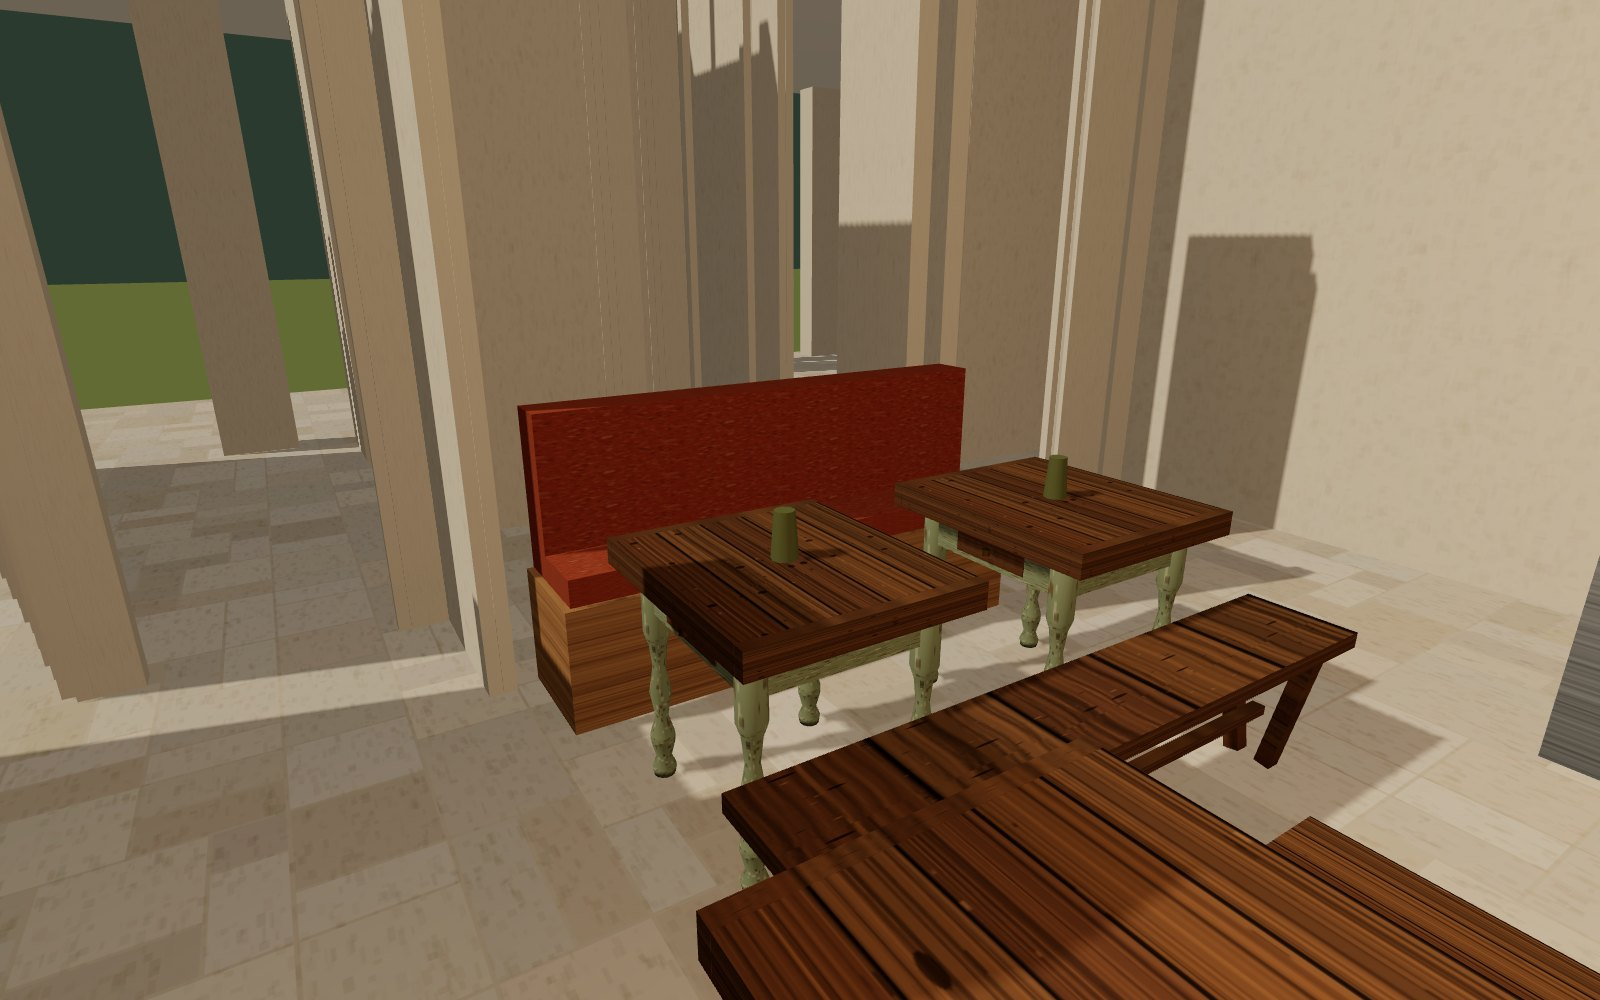
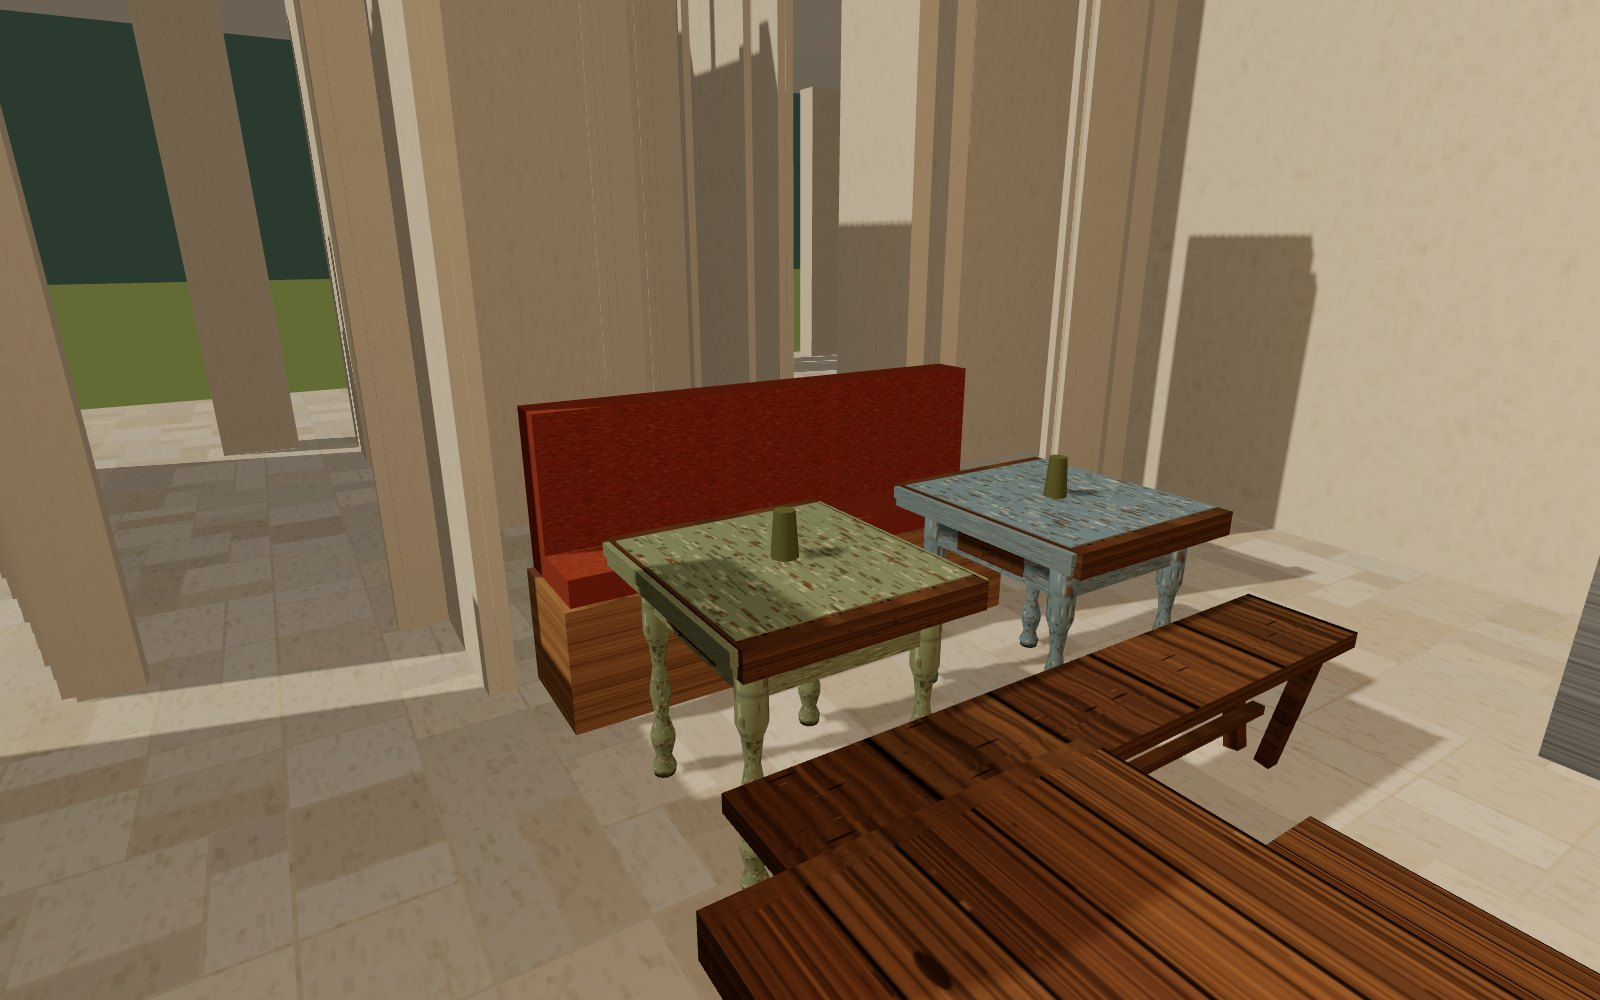
Tavolini antichi: anche il piano dipinto e consumato come le gambe, in tre colori vecchi
Claude-Session: https://claude.ai/code/session_01QZXxqty357DcebAAL5Vpaf

Changed region(s): [[0.375, 0.465, 0.75, 0.682]]

diff --git a/render-3d/sala-tavoli-antichi/piu-antichi/pianoterra.js b/render-3d/sala-tavoli-antichi/piu-antichi/pianoterra.js
@@ -375,7 +375,9 @@ const antW = T(rep(cv(512, 256, (g, w, h) => { const pl = 5, ph = h / pl;
     for (let k = 0; k < 2; k++) { const kx = rnd() * w, ky = p * ph + ph * (0.3 + rnd() * 0.4); g.fillStyle = 'rgba(20,8,2,0.55)'; g.beginPath(); g.ellipse(kx, ky, 6 + rnd() * 6, 3 + rnd() * 2, 0, 0, 7); g.fill(); }
     g.fillStyle = 'rgba(10,4,0,0.85)'; g.fillRect(0, p * ph, w, 2.5); g.fillStyle = 'rgba(220,180,130,0.12)'; g.fillRect(0, p * ph + 3, w, 3); }
   for (let i = 0; i < 70; i++) { g.fillStyle = `rgba(${rnd() > 0.6 ? '210,170,120' : '15,6,2'},${0.15 + rnd() * 0.25})`; g.fillRect(rnd() * w, rnd() * h, 1 + rnd() * 12, 1 + rnd() * 2); } }), 1.5, 1), { roughness: 0.6 });
-const paintBase = T(rep(cv(256, 256, (g, w, h) => { g.fillStyle = '#8f9a7a'; g.fillRect(0, 0, w, h); for (let i = 0; i < 500; i++) { const r = rnd(); g.fillStyle = r < 0.4 ? 'rgba(235,225,200,0.35)' : r < 0.8 ? 'rgba(70,50,30,0.4)' : 'rgba(120,80,45,0.6)'; g.fillRect(rnd() * w, rnd() * h, 2 + rnd() * 14, 1 + rnd() * 4); } }), 1, 1), { roughness: 0.8 });
+const paintT = (base) => T(rep(cv(256, 256, (g, w, h) => { g.fillStyle = base; g.fillRect(0, 0, w, h); for (let i = 0; i < 520; i++) { const r = rnd(); g.fillStyle = r < 0.4 ? 'rgba(240,232,210,0.35)' : r < 0.8 ? 'rgba(70,50,30,0.35)' : 'rgba(120,80,45,0.65)'; g.fillRect(rnd() * w, rnd() * h, 2 + rnd() * 16, 1 + rnd() * 4); }
+  g.strokeStyle = 'rgba(60,40,25,0.25)'; g.lineWidth = 1; for (let y = 0; y < h; y += 32) { g.beginPath(); g.moveTo(0, y); g.lineTo(w, y + 2); g.stroke(); } }), 1, 1), { roughness: 0.75 });
+const PAINTS = [paintT('#8f9a7a'), paintT('#e3d8bf'), paintT('#7f97a3')]; let paintI = 0; const paintBase = PAINTS[0];
 const legGeo = (h, r) => new THREE.LatheGeometry([[0, 0], [r * 0.85, 0], [r * 0.95, h * 0.04], [r * 0.6, h * 0.09], [r * 0.95, h * 0.17], [r * 0.95, h * 0.21], [r * 0.5, h * 0.3], [r * 0.85, h * 0.42], [r * 0.5, h * 0.55], [r * 0.7, h * 0.66], [r * 1.05, h * 0.72], [r * 1.05, h], [0, h]].map(([a, b]) => new THREE.Vector2(a, b)), 14);
 function antLeg(x, z, h, r, m = antW) { const L = new THREE.Mesh(legGeo(h, r), m); L.position.set(x, 0, z); L.castShadow = true; scene.add(L); }
 // big tables: Italian "fratino" refectory table – very thick plank top, two carved trestle ends, long beam with wooden wedges
@@ -390,9 +392,13 @@ function antTable(x0, x1, z0, z1, h = 0.76) {
     box(x0 + 0.25, x1 - 0.25, 0.3, 0.4, cz - 0.035, cz + 0.035, antW);                       // long beam
     for (const x of [x0 + 0.22, x1 - 0.22]) box(x - 0.02, x + 0.02, 0.26, 0.44, cz - 0.05, cz + 0.05, antW);  // wedges
   } else {                                            // small: old kitchen table with painted turned legs and a drawer
-    const ix = 0.07, iz = 0.07; box(x0 + ix, x1 - ix, h - 0.2, h - 0.08, z0 + iz, z1 - iz, paintBase);
+    const pm = PAINTS[paintI++ % PAINTS.length];
+    // painted top in the same old style as the legs: worn paint, rounded moulded edge in two steps, wood showing at the corners
+    box(x0, x1, h - 0.08, h, z0, z1, antW); box(x0 + 0.01, x1 - 0.01, h - 0.002, h + 0.004, z0 + 0.01, z1 - 0.01, pm);
+    for (const [a1, a2, b1, b2] of [[x0 - 0.02, x1 + 0.02, z0 - 0.02, z0], [x0 - 0.02, x1 + 0.02, z1, z1 + 0.02], [x0 - 0.02, x0, z0, z1], [x1, x1 + 0.02, z0, z1]]) { box(a1, a2, h - 0.045, h - 0.005, b1, b2, pm); box(a1 + 0.005, a2 - 0.005, h - 0.075, h - 0.05, b1 + (b1 < z0 ? 0.008 : 0), b2 - (b2 > z1 ? 0.008 : 0), pm); }
+    const ix = 0.07, iz = 0.07; box(x0 + ix, x1 - ix, h - 0.2, h - 0.08, z0 + iz, z1 - iz, pm);
     box((x0 + x1) / 2 - 0.15, (x0 + x1) / 2 + 0.15, h - 0.18, h - 0.1, z1 - iz, z1 - iz + 0.005, antW); cyl((x0 + x1) / 2, z1 - iz + 0.02, 0.015, h - 0.15, h - 0.13, brassM, 8);
-    for (const x of [x0 + ix + 0.02, x1 - ix - 0.02]) for (const z of [z0 + iz + 0.02, z1 - iz - 0.02]) antLeg(x, z, h - 0.08, 0.04, paintBase); } }
+    for (const x of [x0 + ix + 0.02, x1 - ix - 0.02]) for (const z of [z0 + iz + 0.02, z1 - iz - 0.02]) antLeg(x, z, h - 0.08, 0.04, pm); } }
 function antBench(x0, x1, z0, z1) { box(x0, x1, 0.41, 0.47, z0, z1, antW); const cz = (z0 + z1) / 2;
   const n = Math.max(2, Math.round((x1 - x0) / 1.4) + 1);
   for (let i = 0; i < n; i++) { const x = x0 + 0.15 + i * (x1 - x0 - 0.3) / (n - 1); for (const s of [-1, 1]) { const lg = box(x - 0.025, x + 0.025, 0, 0.44, cz + s * 0.09 - 0.025, cz + s * 0.09 + 0.025, antW); lg.rotation.x = s * 0.18; } }
@@ -442,7 +448,7 @@ const sun = new THREE.DirectionalLight('#fff0d8', AERIAL ? 2.4 : 1.4); sun.posit
 sun.castShadow = true; sun.shadow.mapSize.set(4096, 4096); Object.assign(sun.shadow.camera, { left: -16, right: 16, top: 16, bottom: -16, near: 1, far: 60 }); sun.shadow.bias = -0.0005; scene.add(sun);
 if (!AERIAL) for (const [x, z] of [[11, 7], [16, 7], [11, 9], [16, 9]]) { const l = new THREE.PointLight('#ffe2b8', 1.6, 0, 2); l.position.set(x, 3.0, z); scene.add(l); }
 scene.background = new THREE.Color('#2b3a2f');
-const CAMS = { rossa: [[10.6, 1.6, 8.6], [7.9, 0.6, 6.9], 62], sala2: [[11.6, 1.75, 5.0], [15.5, 0.9, 9.8], 68], salatop: [[13.0, 11.5, 11.5], [12.8, 0, 6.8], 48], alto: [[9.3, 27, 17.5], [9.3, 0, 7.4], 42], bar: [[14.2, 1.6, 9.6], [14.2, 1.4, 3.6], 68], sala: [[17.6, 1.7, 9.9], [9.5, 1.1, 5.0], 66], portico: [[3.6, 1.6, 13.6], [14, 0.9, 12.6], 64] };
+const CAMS = { rossa: [[10.6, 1.6, 8.6], [7.9, 0.6, 6.9], 62], tavolino: [[12.3, 1.3, 8.9], [13.2, 0.6, 9.9], 58], verde: [[15.6, 1.4, 8.4], [17.4, 0.6, 9.6], 60], sala2: [[11.6, 1.75, 5.0], [15.5, 0.9, 9.8], 68], salatop: [[13.0, 11.5, 11.5], [12.8, 0, 6.8], 48], alto: [[9.3, 27, 17.5], [9.3, 0, 7.4], 42], bar: [[14.2, 1.6, 9.6], [14.2, 1.4, 3.6], 68], sala: [[17.6, 1.7, 9.9], [9.5, 1.1, 5.0], 66], portico: [[3.6, 1.6, 13.6], [14, 0.9, 12.6], 64] };
 const k = CAMS[VIEW] || CAMS.alto;
 const camera = new THREE.PerspectiveCamera(k[2], W / H, 0.05, 200); camera.position.set(...k[0]); camera.lookAt(...k[1]);
 renderer.render(scene, camera);
